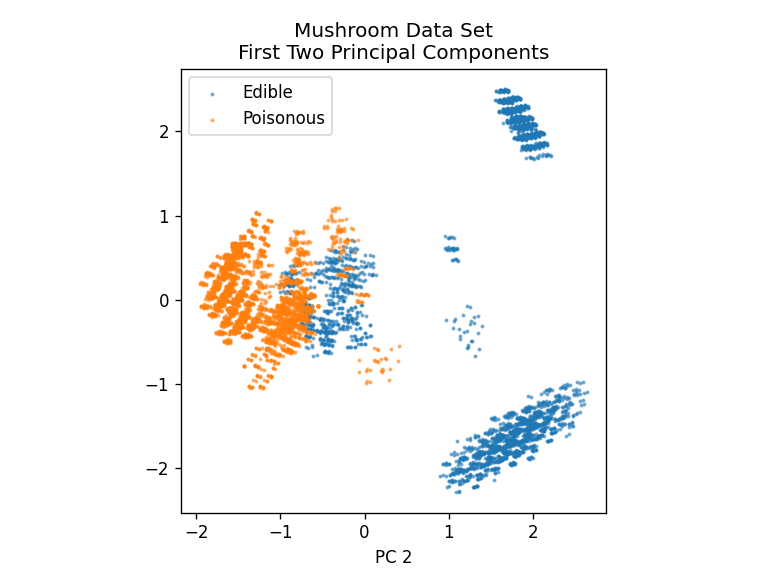
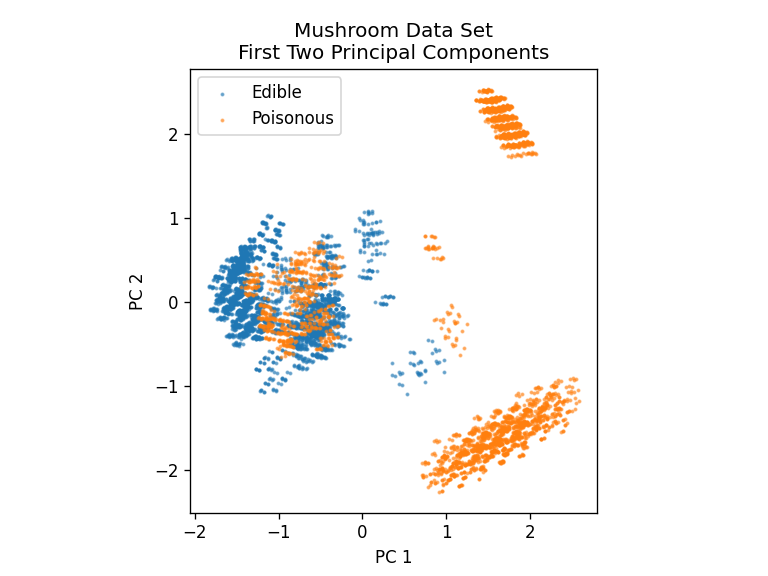
knn - missing confusion matrix and CV

diff --git a/knn.py b/knn.py
@@ -1,9 +1,15 @@
 import pandas as pd
 import numpy as np
 import matplotlib.pyplot as plt
+import seaborn as sn 
+from sklearn import metrics
 from sklearn.model_selection import train_test_split
 from sklearn.decomposition import PCA
+from sklearn.neighbors import KNeighborsClassifier
+from sklearn.metrics import confusion_matrix,classification_report
 import pylab
+from sklearn.metrics import accuracy_score
+from sklearn.model_selection import KFold
 
 def read_mushroom_data():
     df=pd.read_csv('mushrooms.csv')
@@ -18,7 +24,11 @@ print('\nValues classified as \'Missing\' for stalk-root: ', (df.iloc[:,11] == '
 
 ### due to large number of missing values, this featues are removed
 df = df.drop(str(df.columns[11]), axis = 1)
+
+### alphabet to numerical 
 df2 = pd.get_dummies(df)
+
+
 
 print('\nNumber of samples: ', df2.shape[0])
 print('Number of attributes: ', df2.shape[1])
@@ -28,25 +38,25 @@ print('Maximum value across all attributes and samples: ', df2.max().max())
 print('\nMinimum fraction of \'1\'-s across all attributes: {:.5f}'.format(df2.mean().min()))
 print('Maximum fraction of \'1\'-s across all attributes: {:.5f}'.format(df2.mean().max()))
 
-x=df2.iloc[:,df2.columns!='class']
-y=df2.iloc[:,0]
-
-print("X:\n", x)
-print("Y:\n", y)
-#### Partition data into training and test sets
+# Define poisonous as 1 and edible as 0 for the target
+X = df2.iloc[:,2:]
+y = df2.iloc[:,1] 
 
 #### Partition data into training and test sets
-X_train,X_test,y_train,y_test = train_test_split(x,y,random_state=None)
+X_train,X_test,y_train,y_test = train_test_split(X,y,random_state=None)
 
-#### Reduce dimensionality of the features from 113 to two principal compinets
+#### Reduce dimensionality of the features from 113 to two principal componets
+#### A PCA plot converts the correlations (or lack there of) among all of the features into a 2-D vector
 pca = PCA(n_components=2).fit(X_train)
 
 X_train = pca.transform(X_train)
 X_test = pca.transform(X_test)
 
 ################### Analysis, Fitting and Visualizing Classifiers   ###################
-plt.cla()
-plt.clf()
+
+### plot the target as a function of the two principal components
+# plt.cla()
+# plt.clf()
 
 plt.figure(dpi=120)
 plt.scatter(X_train[y_train.values==0, 0], X_train[y_train.values==0, 1], label = 'Edible', alpha = 0.5, s = 2)
@@ -54,16 +64,23 @@ plt.scatter(X_train[y_train.values==1, 0], X_train[y_train.values==1, 1], label 
 plt.title('Mushroom Data Set\nFirst Two Principal Components')
 plt.legend(frameon=1)
 plt.xlabel('PC 1')
-plt.xlabel('PC 2')
+plt.ylabel('PC 2')
 plt.gca().set_aspect('equal')
 plt.savefig('knn.png')
 
+knn = KNeighborsClassifier(n_neighbors=10)
+knn.fit(X_train, y_train)
+y_pred = knn.predict(X_test)
 
-#######   Function to visualize the decision boundary and decision Probabilities  ##############
-# def decision_boundary(X,y,fitted_model):
-#     fig=plt.figure(figsize=(10,5), dpi=100)
+  # Accuracy:
+acc = accuracy_score(y_pred, y_test)
+print("Accuracy:", acc)
 
-#     for i, plot_type in enumerate(['Decision Boundary', 'Decision Probabilities']):
-#         plt.subplot(1,2,i+1)
-#         step = 0.01
-#         x_max = X[_,0]
+confusion_matrix(y_pred,y_test)
+
+k_fold_splits = 5
+
+kf = KFold(n_splits = k_fold_splits, shuffle=true)
+accuracies = []
+
+# for i in range(f_fold_splits)
